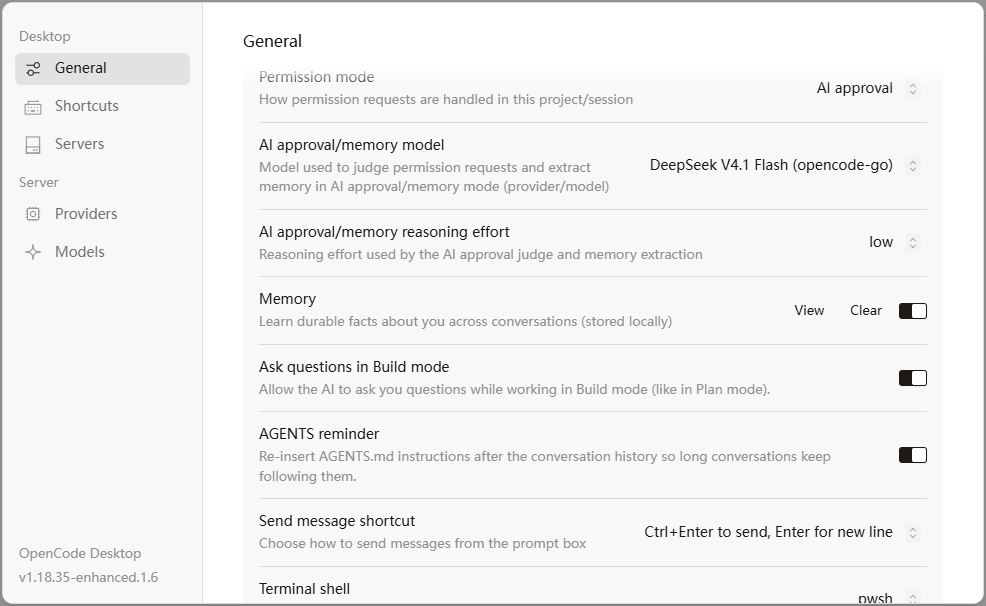
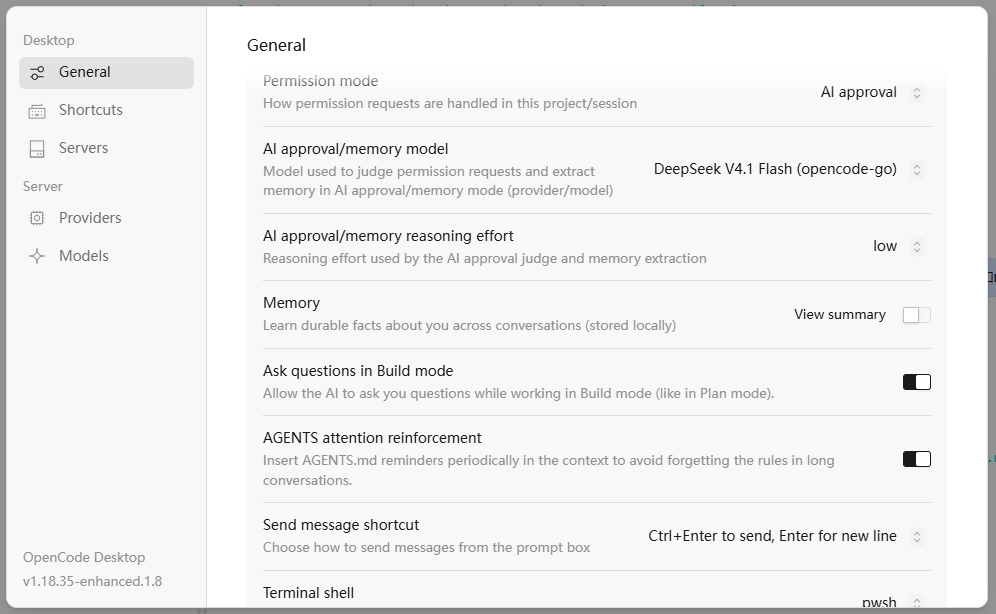
docs: refresh 1.8 README and screenshots

diff --git a/README.md b/README.md
@@ -19,13 +19,10 @@ Only the Windows version is released so far, now upgraded to version 1.8. To dow
 
 ### What's New in 1.8
 
-- Fixed stale todos from a previous task reappearing in a new task: a new task now clears the old list and shows only the list submitted in the current turn. An explicit continuation such as "continue" keeps the previous progress unchanged.
-
-### What's New in 1.7
-
-- Rewrote the memory system to inject a memory summary file into context in a Codex-like way and look up memory details on demand. This reduces the amount of memory content kept in context and improves cache hit rates.
-- Adjusted the AGENTS.md attention reinforcement feature to use segmented, persisted context logic, improving cache hit rates.
-- This version makes significant data-structure changes; back up the "OpenCode Enhanced" database before use.
+- **Todo list display fix**: Fixed the upstream bug where a completed todo list from an old task reappeared in new messages; a new todo list is created when the task list changes.
+- **AGENTS attention reinforcement logic adjustment**: The insertion interval for global instructions is now calculated automatically from the model's maximum context limit, adapting to more models.
+- **Reasoning preview auto-follow**: With reasoning display off, the 5-line preview now stays scrolled to the newest reasoning while streaming; scrolling up pauses auto-follow.
+- This version makes significant data-structure changes; users coming from before 1.7 should back up the "OpenCode Enhanced" database before use.
 
 ## The Classic UI Is Back!
 

diff --git a/README.zh.md b/README.zh.md
@@ -19,13 +19,10 @@
 
 ### 1.8版更新内容
 
-- 修复旧任务 todo 列表在新任务中重新出现的问题：新任务会清空上一轮 todo，只显示本轮实际提交的列表；明确说“继续”时保留上一轮进度不变。
-
-### 1.7版更新内容
-
-- 重写记忆系统，使用类似codex的上下文注入记忆摘要文件，按需查询记忆细节的方式，减少了记忆内容在上下文中的信息，并提高缓存命中率。
-- AGENTS.md注意力强化功能调整，改为使用上下文分段式持久化逻辑，提高缓存命中率。
-- 此版本的数据结构调整较大，建议先备份"OpenCode Enhanced"数据库再使用。
+- **To-do列表显示修复**：修复了官方代码中旧任务to-do列表已完成后在新消息中又重新出现的bug；如果任务清单发生变化，会重新建立to-do列表
+- **AGENTS注意力强化逻辑调整**：全局指令在上下文的插入间隔根据模型最大上下文限制自动计算，适应更多的模型。
+- **推理预览自动跟随**：关闭思维链显示时，5 行推理预览会随流式输出自动滚到最新内容；手动上滚时暂停跟随。
+- 此版本的数据结构调整较大，1.7版本之前的用户建议先备份"OpenCode Enhanced"数据库再使用。
 
 
 ## 经典UI界面回来了！
